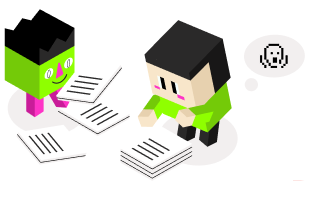
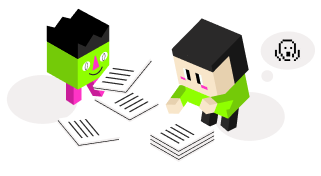
fix bags comments

diff --git a/src/UI/ModalRestart/ModalRestart.vue b/src/UI/ModalRestart/ModalRestart.vue
@@ -73,10 +73,15 @@ if(!wrapRef.value && !contantRef.value)return
 
 <style scoped>
 .stage-1 .img{
-width: calc(var(--app-height)*28.6 / 100)
+width: calc(var(--app-height)*28.6 / 100);
+margin-bottom: calc(var(--app-height)*3.6 / 100);
 }
 
 .stage-2 .img{
+width: calc(var(--app-height)*31.2 / 100)
+}
+
+.stage-3 .img{
 width: calc(var(--app-height)*31.2 / 100)
 }
 

diff --git a/src/views/Stage2.vue b/src/views/Stage2.vue
@@ -7,7 +7,7 @@
       <livesPucman :count='lives' stage="stage2"/>
     </div>
     <div v-if="isScrenSever" class="">
-      <Screensever page="stage-2" color="#FE34C6"/>
+      <Screensever page="stage-3" color="#FE34C6"/>
     </div>
 
     <div v-if="!gameStarted && endAnimate && !finishGame" class="">

diff --git a/src/UI/ModalEnd/ModalEnd.vue b/src/UI/ModalEnd/ModalEnd.vue
@@ -78,6 +78,11 @@ width: calc(var(--app-height)*26.6 / 100);;
 width: calc(var(--app-height)*34.4 / 100);;
 }
 
+
+.stage-3 .img{
+width: calc(var(--app-height)*21.4 / 100);;
+}
+
 .modal-wrapper {
     position: absolute;
     top: 0;

diff --git a/src/UI/ModalStart/ModalStart.vue b/src/UI/ModalStart/ModalStart.vue
@@ -70,7 +70,7 @@ if(!wrapRef.value && !contantRef.value)return
 <style scoped>
 
 .stage-1 .img{
-    width: calc(var(--app-width)*46.8 / 100);
+    width: calc(var(--app-width)*59.8 / 100);
 }
 
 .stage-2 .img{
